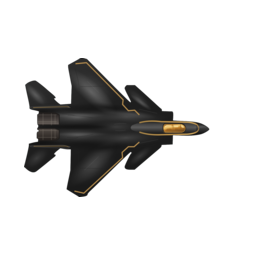
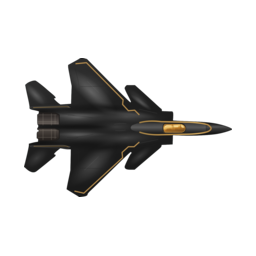
Restore the C aircraft nose and prepare MachDefense v0.8.2

Changed region(s): [[0.75, 0.4688, 0.9062, 0.5312]]

diff --git a/Art/EnemyAirStrike/README.md b/Art/EnemyAirStrike/README.md
@@ -12,9 +12,9 @@
[9 lines of base64/hex data omitted]
 
 첫 편집에는 첫 시안과 아래 네 장을 직접 첨부했다. 두 번째 편집에서는 수정 시안·공식 도장 사진·원작 공습기 PNG를 다시 첨부해 표식 위치를 고쳤다. 두 편집 모두 투명 배경을 사용했다.
 
@@ -73,10 +73,14 @@ iPhone Air 시뮬레이터에서 적기와 아군 공습기를 같은 전투 프
 
 ## C안의 검은 도장과 짧은 기수
 
-256×256 래스터에서 채택 C안의 조종석 바로 앞을 기준으로 기수를 절반으로 줄였다. 승인한 윤곽과 금줄을 래스터에 맞췄다. 래스터의 보이는 픽셀은 수정 승인본과 일치한다.
+기수 축소 작업 당시 256×256 래스터에서 채택 C안의 조종석 바로 앞을 기준으로 기수를 절반으로 줄였다. 승인한 윤곽과 금줄을 래스터에 맞췄다. 래스터의 보이는 픽셀은 수정 승인본과 일치한다.
 
 Apple `pngcrush -iphone`으로 래스터를 사전 곱셈 BGRA로 준비했다. [원작 아군 공습기 CgBI](../../Resources/OriginalImages/Airplane.png)와 같은 헤더·색좌표·픽셀 밀도·단일 IDAT 구조로 저장했다. [기존 준비 도구](../../tools/prepare_resources.py)의 PNG 디코딩, 알파 역산, RGBA 인코딩을 같은 순서로 적용했다. 투명도와 불투명 색, 금색 유리 픽셀은 준비 전후 동일하다. 반투명 경계에서 사전 곱셈 채널 값의 차이는 최대 1 미만이다.
 
 전투에서는 아군기와 적기 모두 기존의 `AirStrike::appendSprite()`로 한 장을 그린다. 적기는 앞서 정한 절반 배율을 사용한다. [공습 스프라이트](../../Sources/Core/Simulation/SpecialAttack.cpp) · [전투 레이어](../../Sources/Core/Presentation/WorldPresentation.cpp)
 
 iPhone Air와 Android 에뮬레이터, 오프라인 Web/PWA, Tauri의 치트 검사에서 최종 파일을 확인했다. iPhone에서는 아군기와 적기가 같은 전투 화면에 표시됐다. 다른 게임 자원과 공용 로드·렌더 파일은 기준 브랜치와 일치한다.
+
+## v0.8.2 C안 적용
+
+C안에서 기수를 줄이기 전 길이로 복구했다. 금색 유리와 256×256 캔버스, 공용 렌더 배율은 유지했다. 래스터에서 CgBI를 만든 뒤 아군기와 같은 규칙으로 전투용 RGBA를 준비했다.

diff --git a/README.en.md b/README.en.md
@@ -4,7 +4,7 @@
 [한국어](README.md) | [English](README.en.md)
 <!-- language-nav:end -->
 
-[![Release v0.8.1](docs/public/media/badges/version.svg)](https://github.com/gelb2/MachDefense/releases/tag/v0.8.1)
+[![Release v0.8.2](docs/public/media/badges/version.svg)](https://github.com/gelb2/MachDefense/releases/tag/v0.8.2)
 [![iOS, iPadOS, Android, Web, PWA, macOS](docs/public/media/badges/platforms.svg)](docs/en/public/build-and-install.md)
 [![arm64, WebAssembly](docs/public/media/badges/arch.svg)](docs/en/public/architecture.md)
 [![C++20, Objective-C++, Kotlin, JavaScript, Rust](docs/public/media/badges/code.svg)](docs/en/public/architecture.md)
@@ -32,7 +32,7 @@ This has nothing to do with what I felt while restoring the trilogy, but I’ve 
 
 Open the link to install the game or play in your browser. On iPhone and iPad, choose **Add to Home Screen** in Safari's Share menu. On Android and Mac, press **INSTALL GAME**. Once the resources finish downloading, you can play offline.
 
-If building with Xcode or Android Studio is difficult, use the PWA or the [Tauri Mac app](https://github.com/gelb2/MachDefense/releases/download/v0.8.1/MachDefense-Desktop-v0.8.1-arm64.zip). The Mac app requires macOS 14 or later on Apple Silicon and stores progress in its app data folder. [Build and installation](docs/en/public/build-and-install.md) also explains how to install the native apps.
+If building with Xcode or Android Studio is difficult, use the PWA or the [Tauri Mac app](https://github.com/gelb2/MachDefense/releases/download/v0.8.2/MachDefense-Desktop-v0.8.2-arm64.zip). The Mac app requires macOS 14 or later on Apple Silicon and stores progress in its app data folder. [Build and installation](docs/en/public/build-and-install.md) also explains how to install the native apps.
 
 Thank you to [fastutlego](https://github.com/fastutlego) for contributing the HeavyMach web port. The WebAssembly host, WebGL2 renderer, input, audio and saves in [HeavyMach PR #24](https://github.com/gelb2/HeavyMach/pull/24), together with the subsequent PWA and Tauri work, also laid the groundwork for bringing MachDefense to the web and desktop. I used that architecture for the MachDefense PWA and used the same web host in the Tauri Mac app.
 
@@ -116,11 +116,11 @@ I added upgrade stages for turrets, base equipment, and special attacks whose or
 
 | Platform | How to run | Current status |
 |---|---|---|
-| iPhone / iPad | Xcode workspace | v0.8.1 build. See the release notes for prior device checks and this release’s installation results |
-| Android | Android Studio or APK | [v0.8.1 APK](https://github.com/gelb2/MachDefense/releases/tag/v0.8.1). See the release notes for build and device-check coverage |
+| iPhone / iPad | Xcode workspace | v0.8.2 build. See the release notes for prior device checks and this release’s installation results |
+| Android | Android Studio or APK | [v0.8.2 APK](https://github.com/gelb2/MachDefense/releases/tag/v0.8.2). See the release notes for build and device-check coverage |
 | Web | Browser | Deployed to GitHub Pages. Checked in Mac Chrome, Safari, and WebKit |
 | PWA | Install through the browser | Installation and offline play supported. See the validation document for device results |
-| Tauri Mac | Desktop app | [Download v0.8.1](https://github.com/gelb2/MachDefense/releases/tag/v0.8.1). File saves, recovery and exit checked. macOS 14+ on Apple Silicon |
+| Tauri Mac | Desktop app | [Download v0.8.2](https://github.com/gelb2/MachDefense/releases/tag/v0.8.2). File saves, recovery and exit checked. macOS 14+ on Apple Silicon |
 
 ## Fixed problems and remaining work
 

diff --git a/docs/en/public/build-and-install.md b/docs/en/public/build-and-install.md
@@ -23,7 +23,7 @@ Open the installed app and check that the download has finished. Progress is sto
 
 ## Tauri Mac
 
-[Download the Mac app](https://github.com/gelb2/MachDefense/releases/download/v0.8.1/MachDefense-Desktop-v0.8.1-arm64.zip). Extract it, move MachDefense Desktop.app to Applications, and launch it. It requires macOS 14 or later on Apple Silicon. Game resources are included for offline play from the first launch.
+[Download the Mac app](https://github.com/gelb2/MachDefense/releases/download/v0.8.2/MachDefense-Desktop-v0.8.2-arm64.zip). Extract it, move MachDefense Desktop.app to Applications, and launch it. It requires macOS 14 or later on Apple Silicon. Game resources are included for offline play from the first launch.
 
 The app is ad-hoc signed and has not been notarized by Apple. If macOS blocks it, use System Settings → Privacy & Security → Open Anyway. Use the keyboard for text entry and the mouse or trackpad to play. Drag to move the battlefield; wheel and trackpad scrolling work in the production list. Keyboard battlefield movement is not implemented yet.
 

diff --git a/docs/public/build-and-install.md b/docs/public/build-and-install.md
@@ -23,7 +23,7 @@
 
 ## Tauri Mac
 
-[Mac 앱 다운로드](https://github.com/gelb2/MachDefense/releases/download/v0.8.1/MachDefense-Desktop-v0.8.1-arm64.zip). 압축을 풀고 MachDefense Desktop.app을 응용 프로그램 폴더로 옮겨 실행한다. macOS 14 이상 Apple Silicon용이다. 첫 실행부터 게임 자원이 포함되어 있다.
+[Mac 앱 다운로드](https://github.com/gelb2/MachDefense/releases/download/v0.8.2/MachDefense-Desktop-v0.8.2-arm64.zip). 압축을 풀고 MachDefense Desktop.app을 응용 프로그램 폴더로 옮겨 실행한다. macOS 14 이상 Apple Silicon용이다. 첫 실행부터 게임 자원이 포함되어 있다.
 
 앱은 ad-hoc 서명이며 Apple 공증을 받지 않았다. 실행이 차단되면 시스템 설정 → 개인정보 보호 및 보안 → 확인 없이 열기를 선택한다. 키보드로 텍스트를 입력하고 마우스·트랙패드로 게임을 조작한다. 전장 이동은 눌러 끌기이며 휠·트랙패드 스크롤은 생산 목록에서 동작한다. 전장 키보드 이동은 아직 없다.
 

diff --git a/docs/usability-todo.md b/docs/usability-todo.md
@@ -29,7 +29,7 @@
 - [x] 승인한 F-15 STOL/MTD 외곽, 금줄과 금색 조종석을 유지하고 동체 도장과 음영 시안을 만든다.
 - [x] 현행기와 시안을 같은 전투 시점·크기에서 비교한다. 원작 아군 공습기의 면 명암과 HeavyMach 1 럭스루나에 도장을 참고한다.
 - [x] 후보 원본과 전투 비교를 보고서로 정리했다.
-- [x] 채택한 C안을 게임에 연결했다. 조종석 바로 앞의 기수 길이를 절반으로 줄였고 금색 유리 크기를 유지했다. 정식 웹 빌드와 iPhone Air 시뮬레이터의 전투에서 확인했다. [C안과 기수 수정](../Art/EnemyAirStrike/README.md#c안의-검은-도장과-짧은-기수)
+- [x] 검은 도장의 C안을 채택했다. v0.8.2에서 기수를 C안의 원래 길이로 복구했다. 금색 유리와 공용 표시 배율을 유지했다. [C안과 기수 수정](../Art/EnemyAirStrike/README.md#v082-c안-적용)
 
 # MD-WRITING-UNEASE-INTEGRATION-01 — 헬기 기록 후속 집필·원고 통합
 

diff --git a/CHANGELOG.en.md b/CHANGELOG.en.md
@@ -4,6 +4,10 @@
 [한국어](CHANGELOG.md) | [English](CHANGELOG.en.md)
 <!-- language-nav:end -->
 
+## v0.8.2 — Enemy aircraft design C
+
+November 27, 2026. Applied design C with its black livery and restored the nose to its length before the trim. The gold canopy and in-game drawing scale are unchanged. Apple and Android are 0.8.2 (build 10), and Tauri for Mac is 0.8.2. [Aircraft artwork](Art/EnemyAirStrike/README.md#v082-c안-적용)
+
 ## v0.8.1 — Smaller enemy strike aircraft
 
 November 27, 2026. Shortened the F-15 STOL/MTD's gold cockpit to half its previous length. Halved the enemy aircraft's displayed width and height in battle. [Art and display-size changes (Korean)](Art/EnemyAirStrike/README.md#v081-조종석과-기체-표시-크기).

diff --git a/CHANGELOG.md b/CHANGELOG.md
@@ -4,6 +4,10 @@
 [한국어](CHANGELOG.md) | [English](CHANGELOG.en.md)
 <!-- language-nav:end -->
 
+## v0.8.2 — 적 공습기 C안
+
+2026-11-27. 검은 도장의 C안을 적용했다. 기수는 C안에서 줄이기 전 길이로 돌렸다. 금색 조종석과 전투에서 그리는 배율은 유지했다. Apple·Android 앱은 0.8.2(10), Tauri Mac 앱은 0.8.2다. [기체 그림](Art/EnemyAirStrike/README.md#v082-c안-적용)
+
 ## v0.8.1 — 적 공습기 크기 조정
 
 2026-11-27. F-15 STOL/MTD 적 공습기의 금색 조종석 길이를 절반으로 줄였다. 전투에서 적기의 표시 폭과 높이도 각각 절반으로 줄였다. [조종석과 기체 표시 크기](Art/EnemyAirStrike/README.md#v081-조종석과-기체-표시-크기).
